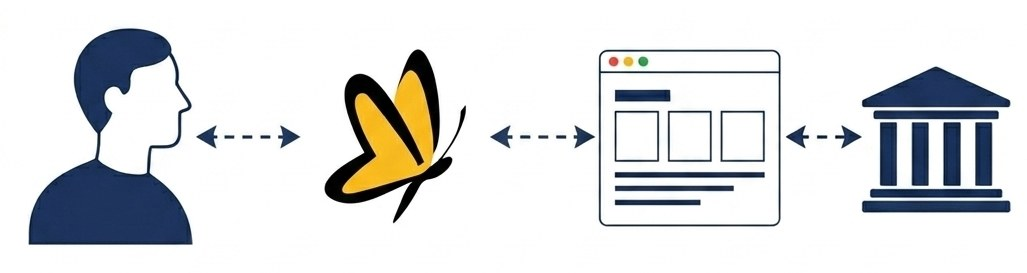
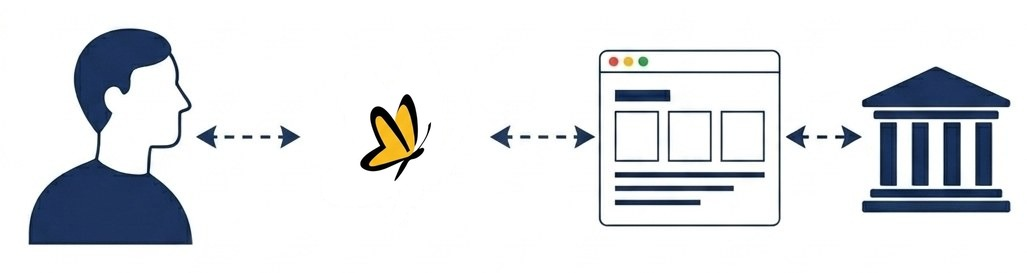
docs: 백서 그림의 나비 로고와 '개인 나비'·'기관 나비' 글자를 절반 크기로
Claude-Session: https://claude.ai/code/session_012YYAKdxpmBNvsPpCfQrdLL

Changed region(s): [[0.3116, 0.1758, 0.4674, 0.8205]]

diff --git a/whitepaper.html b/whitepaper.html
@@ -124,7 +124,7 @@ body.embed h2{font-size:23px}
 
   <h3>첫 번째 변화: 나 대신 나비가 각종 사이트를 방문합니다(2026년 11월 현재)</h3>
   <figure class="wp-fig">
-    <img src="assets/guide/wp-web-2-navi-visits.jpg" width="1027" height="273" alt="사람은 나비에게 말하고, 나비가 웹사이트를 방문해 기관의 일을 처리합니다.">
+    <img src="assets/guide/wp-web-2-navi-visits.jpg?v=20261127b" width="1027" height="273" alt="사람은 나비에게 말하고, 나비가 웹사이트를 방문해 기관의 일을 처리합니다.">
     <figcaption>사람 ↔ 나비 ↔ 웹사이트 ↔ 기관</figcaption>
   </figure>
   <p>나비웹 사용자에게는 AI인 <b>나만의 AI 비서(나비)</b>가 한 사람에 하나씩 있습니다. 나비는 사용자를 대신해 사이트를 방문하고, 메뉴를 찾고, 문서를 읽고, 절차를 파악해 양식을 작성합니다. PC에서는 <b>나비웹 도우미</b>가 나비의 손이 되어 사이트를 조작합니다.</p>
@@ -146,7 +146,7 @@ body.embed h2{font-size:23px}
 
   <h3>두 번째 변화: 나비와 나비가 직접 소통합니다</h3>
   <figure class="wp-fig">
-    <img src="assets/guide/wp-web-3-navi-to-navi.jpg" width="1019" height="326" alt="사람의 개인 나비와 기관의 기관 나비가 서로 직접 소통합니다.">
+    <img src="assets/guide/wp-web-3-navi-to-navi.jpg?v=20261127b" width="1019" height="273" alt="사람의 개인 나비와 기관의 기관 나비가 서로 직접 소통합니다.">
     <figcaption>사람 ↔ 개인 나비 ↔ 기관 나비 ↔ 기관</figcaption>
   </figure>
   <p>나비웹의 웹사이트는 처음부터 <b>사람과 나비, 두 방문자</b>를 맞도록 설계합니다. 사람이 오면 읽기 편한 화면을 보여 주고, 나비가 오면 <b>AI와 AI의 소통</b>으로 바꿉니다. 나비는 메뉴를 찾거나 단추를 누를 필요 없이, 상대 나비에게 용건을 바로 전하고 필요한 정보와 서류를 주고받습니다.</p>
